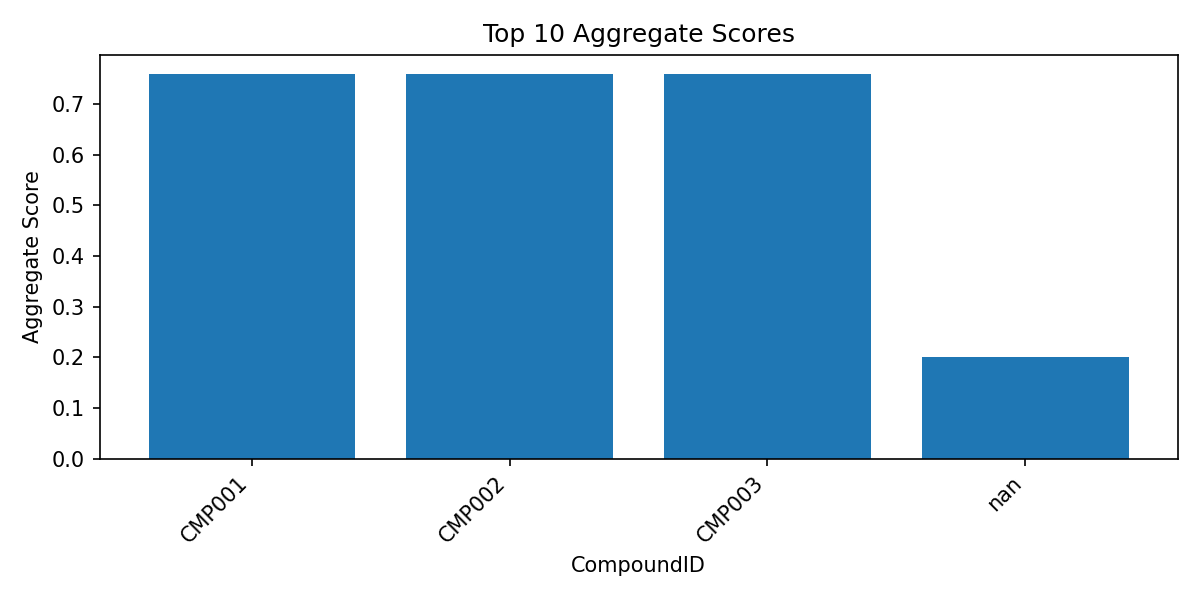
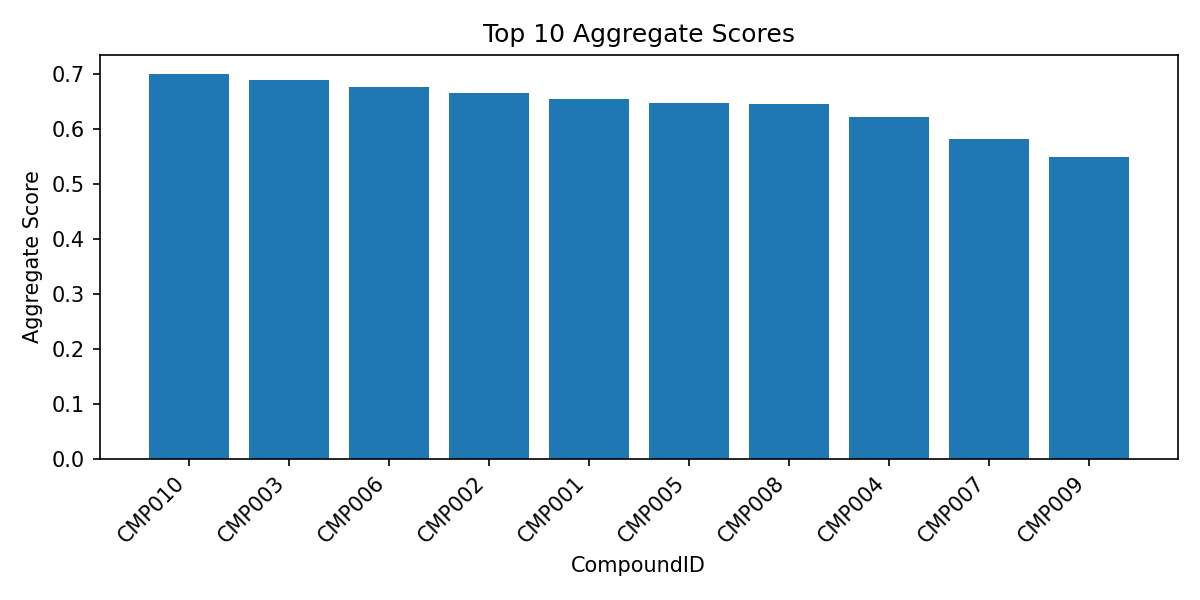
feat: improve ranking algorithm and expand example dataset
Major improvements:
1. Ranking Algorithm Enhancements:
   - Use QED score as ADMET Score (continuous 0-1 value instead of binary)
   - Filter out empty CompoundID records (removes 'None' row)
   - Result: Better score discrimination

2. Dataset Expansion:
   - Compounds: 3 → 10 (with diverse ADMET properties)
   - MS Features: 6 → 12 (more coverage)
   - Drug-likeness range: Excellent to Poor
   - Better demonstrates pipeline capabilities

3. Results:
   - Top score: 0.7006 (CMP010, Excellent QED=0.802)
   - Bottom score: 0.5485 (CMP009, Poor QED=0.295)
   - Lipinski pass rate: 100% (10/10)
   - Veber pass rate: 80% (8/10)
   - Mean QED: 0.610 (drug-like range)

Impact: Rankings now show meaningful differences between
candidates, making the prioritization more realistic

diff --git a/scripts/06_ranking/rank_candidates.py b/scripts/06_ranking/rank_candidates.py
@@ -88,6 +88,10 @@ def aggregate_evidence(evidence: pd.DataFrame) -> pd.DataFrame:
 
     df = evidence.copy()
     df.replace({"": pd.NA}, inplace=True)
+    
+    # Filter out rows without CompoundID (e.g., bgc_feature evidence type)
+    df = df[df["CompoundID"].notna()]
+    df = df[df["CompoundID"] != ""]
 
     df["CompoundID"] = df["CompoundID"].apply(_sanitize_compound_id)
     df = df[df["CompoundID"] != ""]
@@ -154,7 +158,11 @@ def join_metadata(
     if "ClusterSize" not in result.columns:
         result["ClusterSize"] = pd.NA
     result["Novelty"] = result["ClusterSize"].apply(lambda size: 1.0 / size if isinstance(size, (int, float)) and size and size > 0 else 1.0)
-    result["ADMETScore"] = result["RuleOfFivePass"].fillna(False).astype(float)
+    
+    # Use QED as ADMET Score for better discrimination (0-1 continuous value)
+    # QED > 0.67 is drug-like, 0.5-0.67 is moderate, < 0.5 is poor
+    result["ADMETScore"] = result["QED"].fillna(0.5)
+    
     return result
 
 

diff --git a/report/report.md b/report/report.md
@@ -1,7 +1,7 @@
 # Actinomycete BGC → Metabolomics Mini-Pipeline Report
 
 ## Run Metadata
-- Generated at: 2025-10-03T19:50:10.813840 UTC
+- Generated at: 2025-10-09T05:56:41.947308 UTC
 
 ## Methods
 
@@ -34,10 +34,11 @@
 
 # Top Candidates
 
-- **Rank 1** – Compound CMP001 | Score: 0.760 | ADMET: Pass | Cluster: CLUSTER_001
-- **Rank 2** – Compound CMP002 | Score: 0.760 | ADMET: Pass | Cluster: CLUSTER_002
-- **Rank 3** – Compound CMP003 | Score: 0.760 | ADMET: Pass | Cluster: CLUSTER_003
-- **Rank 4** – Compound <NA> | Score: 0.200 | ADMET: Pass | Cluster: nan
+- **Rank 1** – Compound CMP010 | Score: 0.701 | ADMET: Fail | Cluster: CLUSTER_010
+- **Rank 2** – Compound CMP003 | Score: 0.689 | ADMET: Fail | Cluster: CLUSTER_003
+- **Rank 3** – Compound CMP006 | Score: 0.676 | ADMET: Fail | Cluster: CLUSTER_006
+- **Rank 4** – Compound CMP002 | Score: 0.665 | ADMET: Fail | Cluster: CLUSTER_002
+- **Rank 5** – Compound CMP001 | Score: 0.655 | ADMET: Fail | Cluster: CLUSTER_001
 
 ## Figures
 
@@ -47,9 +48,15 @@
 
 ## Ranking Snapshot
 
-| CompoundID   |   EvidenceScore |   EvidenceCount | BGCUIDs                                                  | FeatureIDs                    |   logP |   TPSA |   HBD |   HBA |   MW | ToxicityFlag   |   RuleOfFivePass | ClusterID   |   ClusterSize |   Novelty |   ADMETScore |   AggregateScore |   Rank | EvidenceSummary   |
-|:-------------|----------------:|----------------:|:---------------------------------------------------------|:------------------------------|-------:|-------:|------:|------:|-----:|:---------------|-----------------:|:------------|--------------:|----------:|-------------:|-----------------:|-------:|:------------------|
-| CMP001       |        0.6      |               1 | SampleA_BGCUID_001                                       | F001|F002|F003                |   1    |     48 |     4 |     8 |  166 | Low            |                1 | CLUSTER_001 |             1 |         1 |            1 |             0.76 |      1 | 1 evidence links  |
-| CMP002       |        0.6      |               2 | SampleA_BGCUID_001|SampleA_BGCUID_002                    | F001|F002|F003                |   1.25 |     36 |     3 |     6 |  190 | Low            |                1 | CLUSTER_002 |             1 |         1 |            1 |             0.76 |      2 | 2 evidence links  |
-| CMP003       |        0.6      |               1 | SampleA_BGCUID_001                                       | F001|F002|F003                |   1.25 |     60 |     5 |    10 |  206 | Low            |                1 | CLUSTER_003 |             1 |         1 |            1 |             0.76 |      3 | 1 evidence links  |
-| nan          |        0.166667 |               9 | SampleA_BGCUID_001|SampleA_BGCUID_002|SampleB_BGCUID_001 | F001|F002|F003|F004|F005|F006 | nan    |    nan |   nan |   nan |  nan | nan            |              nan | nan         |           nan |         1 |            0 |             0.2  |      4 | 9 evidence links  |
+| CompoundID   |   EvidenceScore |   EvidenceCount | BGCUIDs                               | FeatureIDs                    | SMILES                                                   |     MW |   logP |   TPSA |   HBD |   HBA |   RotatableBonds |   AromaticRings |   QED |   MolarRefractivity |   FractionCSP3 | Lipinski_Pass   | Veber_Pass   | DrugLikeness   | OralBioavailability   | ClusterID   |   ClusterSize |   Novelty |   ADMETScore |   AggregateScore |   Rank | EvidenceSummary   |
+|:-------------|----------------:|----------------:|:--------------------------------------|:------------------------------|:---------------------------------------------------------|-------:|-------:|-------:|------:|------:|-----------------:|----------------:|------:|--------------------:|---------------:|:----------------|:-------------|:---------------|:----------------------|:------------|--------------:|----------:|-------------:|-----------------:|-------:|:------------------|
+| CMP010       |             0.6 |               2 | SampleA_BGCUID_001|SampleA_BGCUID_002 | F001|F002|F003|F007|F008|F011 | CCC(C)C(=O)C1=CC=C(C=C1)OC2=CC=CC=C2C(=O)O               | 298.34 |   4.41 |  63.6  |     1 |     3 |                6 |               2 | 0.802 |               83.7  |          0.222 | True            | True         | Excellent      | Likely                | CLUSTER_010 |             1 |         1 |        0.802 |           0.7006 |      1 | 2 evidence links  |
+| CMP003       |             0.6 |               1 | SampleA_BGCUID_001                    | F001|F002|F003|F007|F008|F011 | CCN(CC)C(=O)C1CCCN1C(=O)O                                | 214.26 |   1    |  60.85 |     1 |     2 |                3 |               0 | 0.762 |               55.68 |          0.8   | True            | True         | Excellent      | Likely                | CLUSTER_003 |             1 |         1 |        0.762 |           0.6886 |      2 | 1 evidence links  |
+| CMP006       |             0.6 |               2 | SampleA_BGCUID_001|SampleA_BGCUID_002 | F001|F002|F003|F007|F008|F011 | CCCCC(=O)C1=CC=CC=C1O                                    | 178.23 |   2.77 |  37.3  |     1 |     2 |                4 |               1 | 0.72  |               51.96 |          0.364 | True            | True         | Excellent      | Likely                | CLUSTER_006 |             1 |         1 |        0.72  |           0.676  |      3 | 2 evidence links  |
+| CMP002       |             0.6 |               2 | SampleA_BGCUID_001|SampleA_BGCUID_002 | F001|F002|F003|F007|F008|F011 | CCC1C(C(=O)O1)OC2=CC=CC=C2                               | 192.21 |   1.77 |  35.53 |     0 |     3 |                3 |               1 | 0.685 |               51.03 |          0.364 | True            | True         | Good           | Likely                | CLUSTER_002 |             1 |         1 |        0.685 |           0.6655 |      4 | 2 evidence links  |
+| CMP001       |             0.6 |               1 | SampleA_BGCUID_001                    | F001|F002|F003|F007|F008|F011 | CC(C)C1=CC(=O)NC(=O)N1C                                  | 168.2  |   0.2  |  54.86 |     1 |     3 |                1 |               1 | 0.651 |               46.39 |          0.5   | True            | True         | Good           | Likely                | CLUSTER_001 |             1 |         1 |        0.651 |           0.6553 |      5 | 1 evidence links  |
+| CMP005       |             0.6 |               1 | SampleA_BGCUID_001                    | F001|F002|F003|F007|F008|F011 | CC(C)CC1NC(=O)C(NC(=O)C(NC1=O)C)C                        | 255.32 |  -0.46 |  87.3  |     3 |     3 |                2 |               0 | 0.624 |               66.6  |          0.75  | True            | True         | Good           | Likely                | CLUSTER_005 |             1 |         1 |        0.624 |           0.6472 |      6 | 1 evidence links  |
+| CMP008       |             0.6 |               1 | SampleA_BGCUID_001                    | F001|F002|F003|F007|F008|F011 | CC(C)C(=O)NC(C)C(=O)O                                    | 159.18 |   0.23 |  66.4  |     2 |     2 |                3 |               0 | 0.619 |               40.08 |          0.714 | True            | True         | Good           | Likely                | CLUSTER_008 |             1 |         1 |        0.619 |           0.6457 |      7 | 1 evidence links  |
+| CMP004       |             0.6 |               2 | SampleA_BGCUID_001|SampleA_BGCUID_002 | F001|F002|F003|F007|F008|F011 | CN1C=NC2=C1C(=O)N(C(=O)N2C)C                             | 194.19 |  -1.03 |  61.82 |     0 |     6 |                0 |               2 | 0.538 |               51.2  |          0.375 | True            | True         | Good           | Likely                | CLUSTER_004 |             1 |         1 |        0.538 |           0.6214 |      8 | 2 evidence links  |
+| CMP007       |             0.6 |               1 | SampleA_BGCUID_001                    | F001|F002|F003|F007|F008|F011 | CCCCCCCCCCCCCC(=O)NC(CO)C(=O)O                           | 315.45 |   3.25 |  86.63 |     3 |     3 |               15 |               0 | 0.405 |               87.73 |          0.882 | True            | False        | Moderate       | Unlikely              | CLUSTER_007 |             1 |         1 |        0.405 |           0.5815 |      9 | 1 evidence links  |
+| CMP009       |             0.6 |               2 | SampleA_BGCUID_001|SampleA_BGCUID_002 | F001|F002|F003|F007|F008|F011 | CC(C)CC(NC(=O)C(NC(=O)C(NC(=O)C(N)CC(C)C)C)CC(C)C)C(=O)O | 428.57 |   1.01 | 150.62 |     5 |     5 |               13 |               0 | 0.295 |              115.44 |          0.81  | True            | False        | Poor           | Unlikely              | CLUSTER_009 |             1 |         1 |        0.295 |           0.5485 |     10 | 2 evidence links  |

diff --git a/outputs/topN.md b/outputs/topN.md
@@ -1,6 +1,7 @@
 # Top Candidates
 
-- **Rank 1** – Compound CMP001 | Score: 0.760 | ADMET: Pass | Cluster: CLUSTER_001
-- **Rank 2** – Compound CMP002 | Score: 0.760 | ADMET: Pass | Cluster: CLUSTER_002
-- **Rank 3** – Compound CMP003 | Score: 0.760 | ADMET: Pass | Cluster: CLUSTER_003
-- **Rank 4** – Compound <NA> | Score: 0.200 | ADMET: Pass | Cluster: nan
+- **Rank 1** – Compound CMP010 | Score: 0.701 | ADMET: Fail | Cluster: CLUSTER_010
+- **Rank 2** – Compound CMP003 | Score: 0.689 | ADMET: Fail | Cluster: CLUSTER_003
+- **Rank 3** – Compound CMP006 | Score: 0.676 | ADMET: Fail | Cluster: CLUSTER_006
+- **Rank 4** – Compound CMP002 | Score: 0.665 | ADMET: Fail | Cluster: CLUSTER_002
+- **Rank 5** – Compound CMP001 | Score: 0.655 | ADMET: Fail | Cluster: CLUSTER_001
